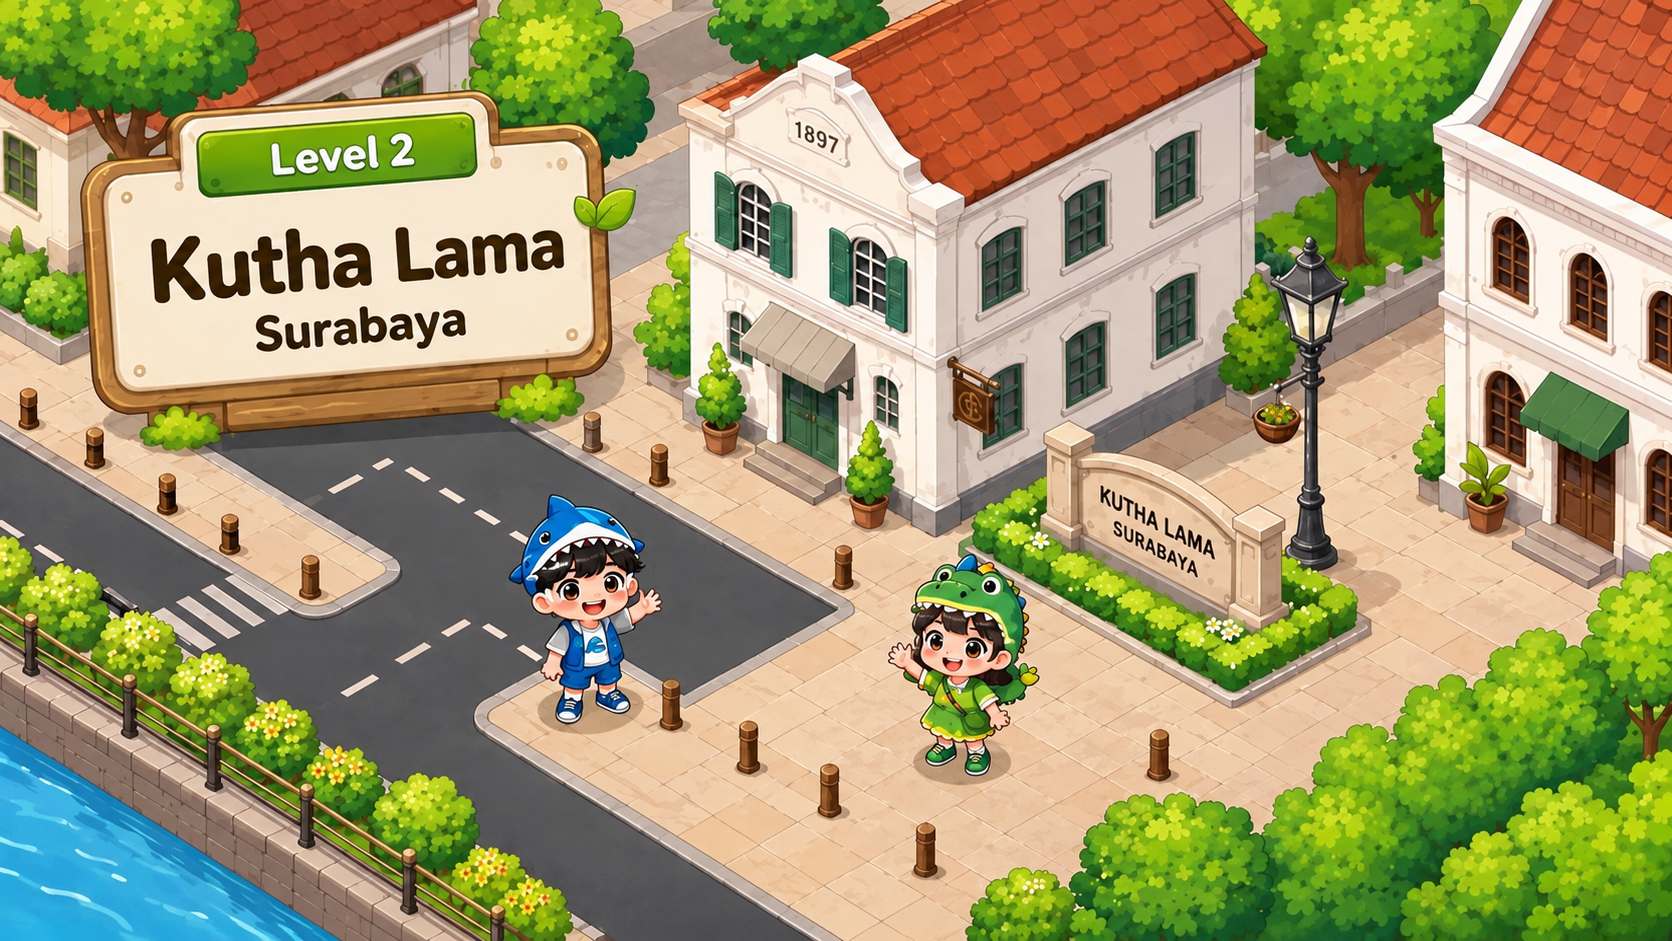
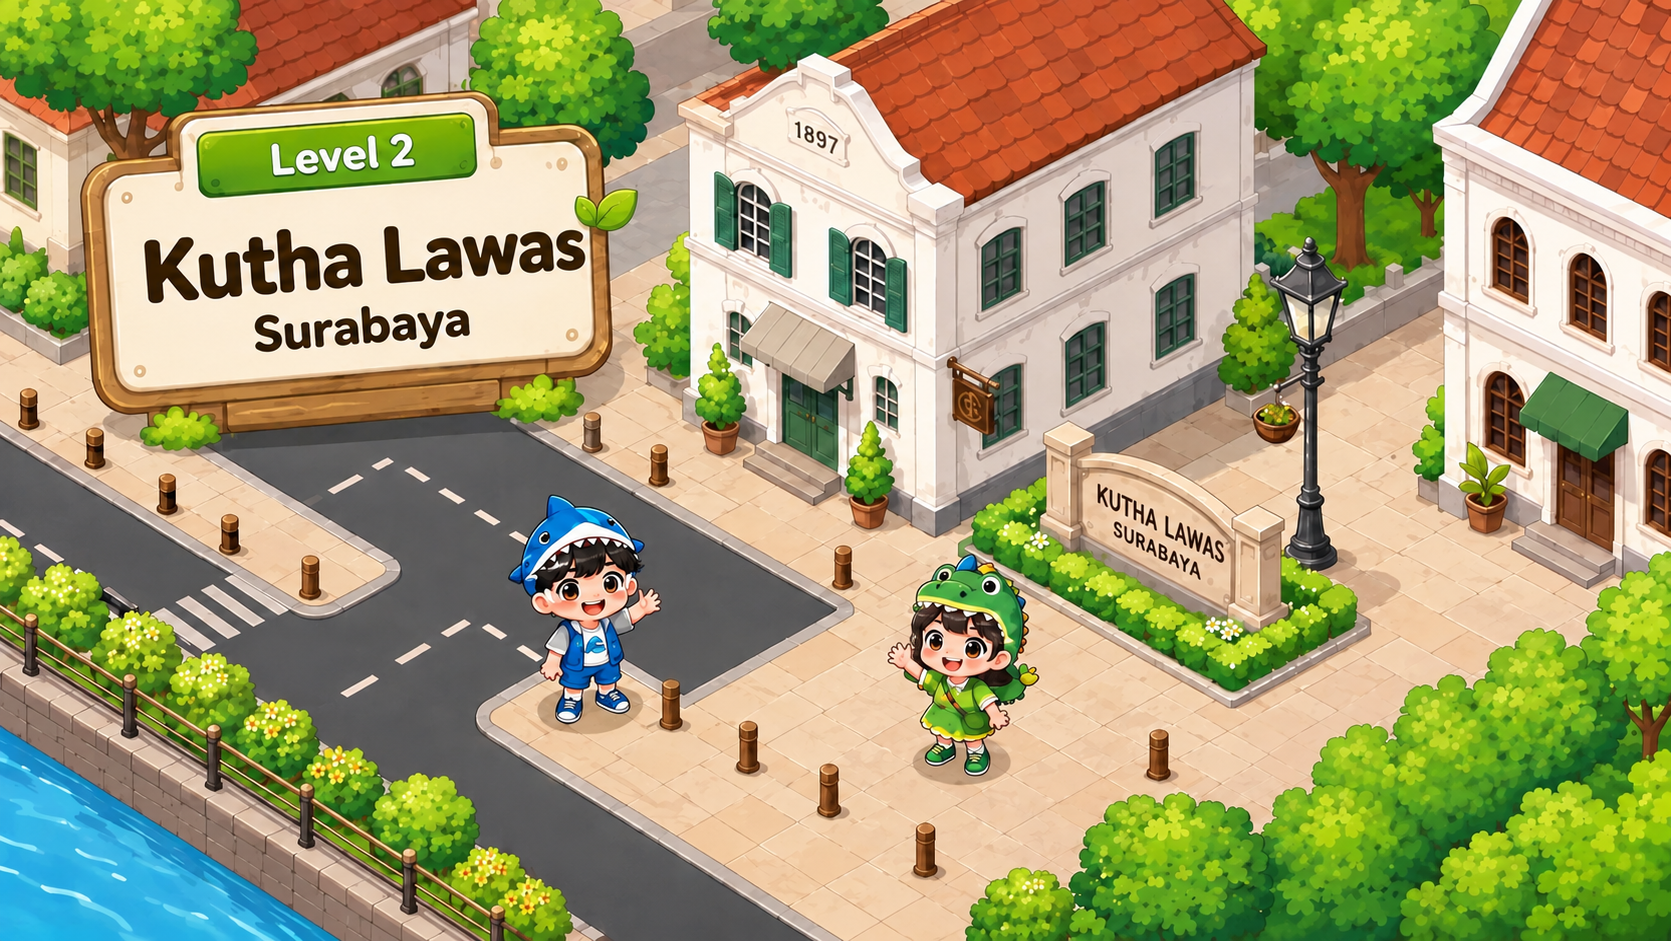
memperbaiki beberapa componen di developer dan zepgame yang direvisi

diff --git a/src/data/zepGameLinks.js b/src/data/zepGameLinks.js
@@ -26,11 +26,11 @@ export const zepGameLevels = [
     type: 'ZEP Game',
     url: 'https://quiz.zep.us/id/play/odJELZ',
     image: '/assets/game/surabaya/level-2.png',
-    location: 'Kutha Lama Surabaya',
+    location: 'Kutha Lawas Surabaya',
     posLabel: 'Pos Kreatif',
     description: 'Rakit parikan saka tetembungan kutha nalika njelajah jejak Kutha Lama Surabaya.',
     badge: 'Lencana Kreatif',
-    keywords: ['Kutha Lama', 'Jembatan Merah'],
+    keywords: ['Kutha lawas', 'Jembatan Merah'],
   },
   {
     levelId: 3,

diff --git a/src/data/developerProfile.js b/src/data/developerProfile.js
@@ -17,7 +17,7 @@ export const developerProfile = {
     imagePosition: 'object-top',
     details: [
       'NIP/NIDN: 198907262015041002 / 0026078901',
-      'Bidang: Pendhidikan Basa lan Sastra Jawi',
+      'Bidang: Pendhidikan Basa lan Sastra Jawa',
       'Perguruan Tinggi: Universitas Negeri Surabaya',
     ],
   },
